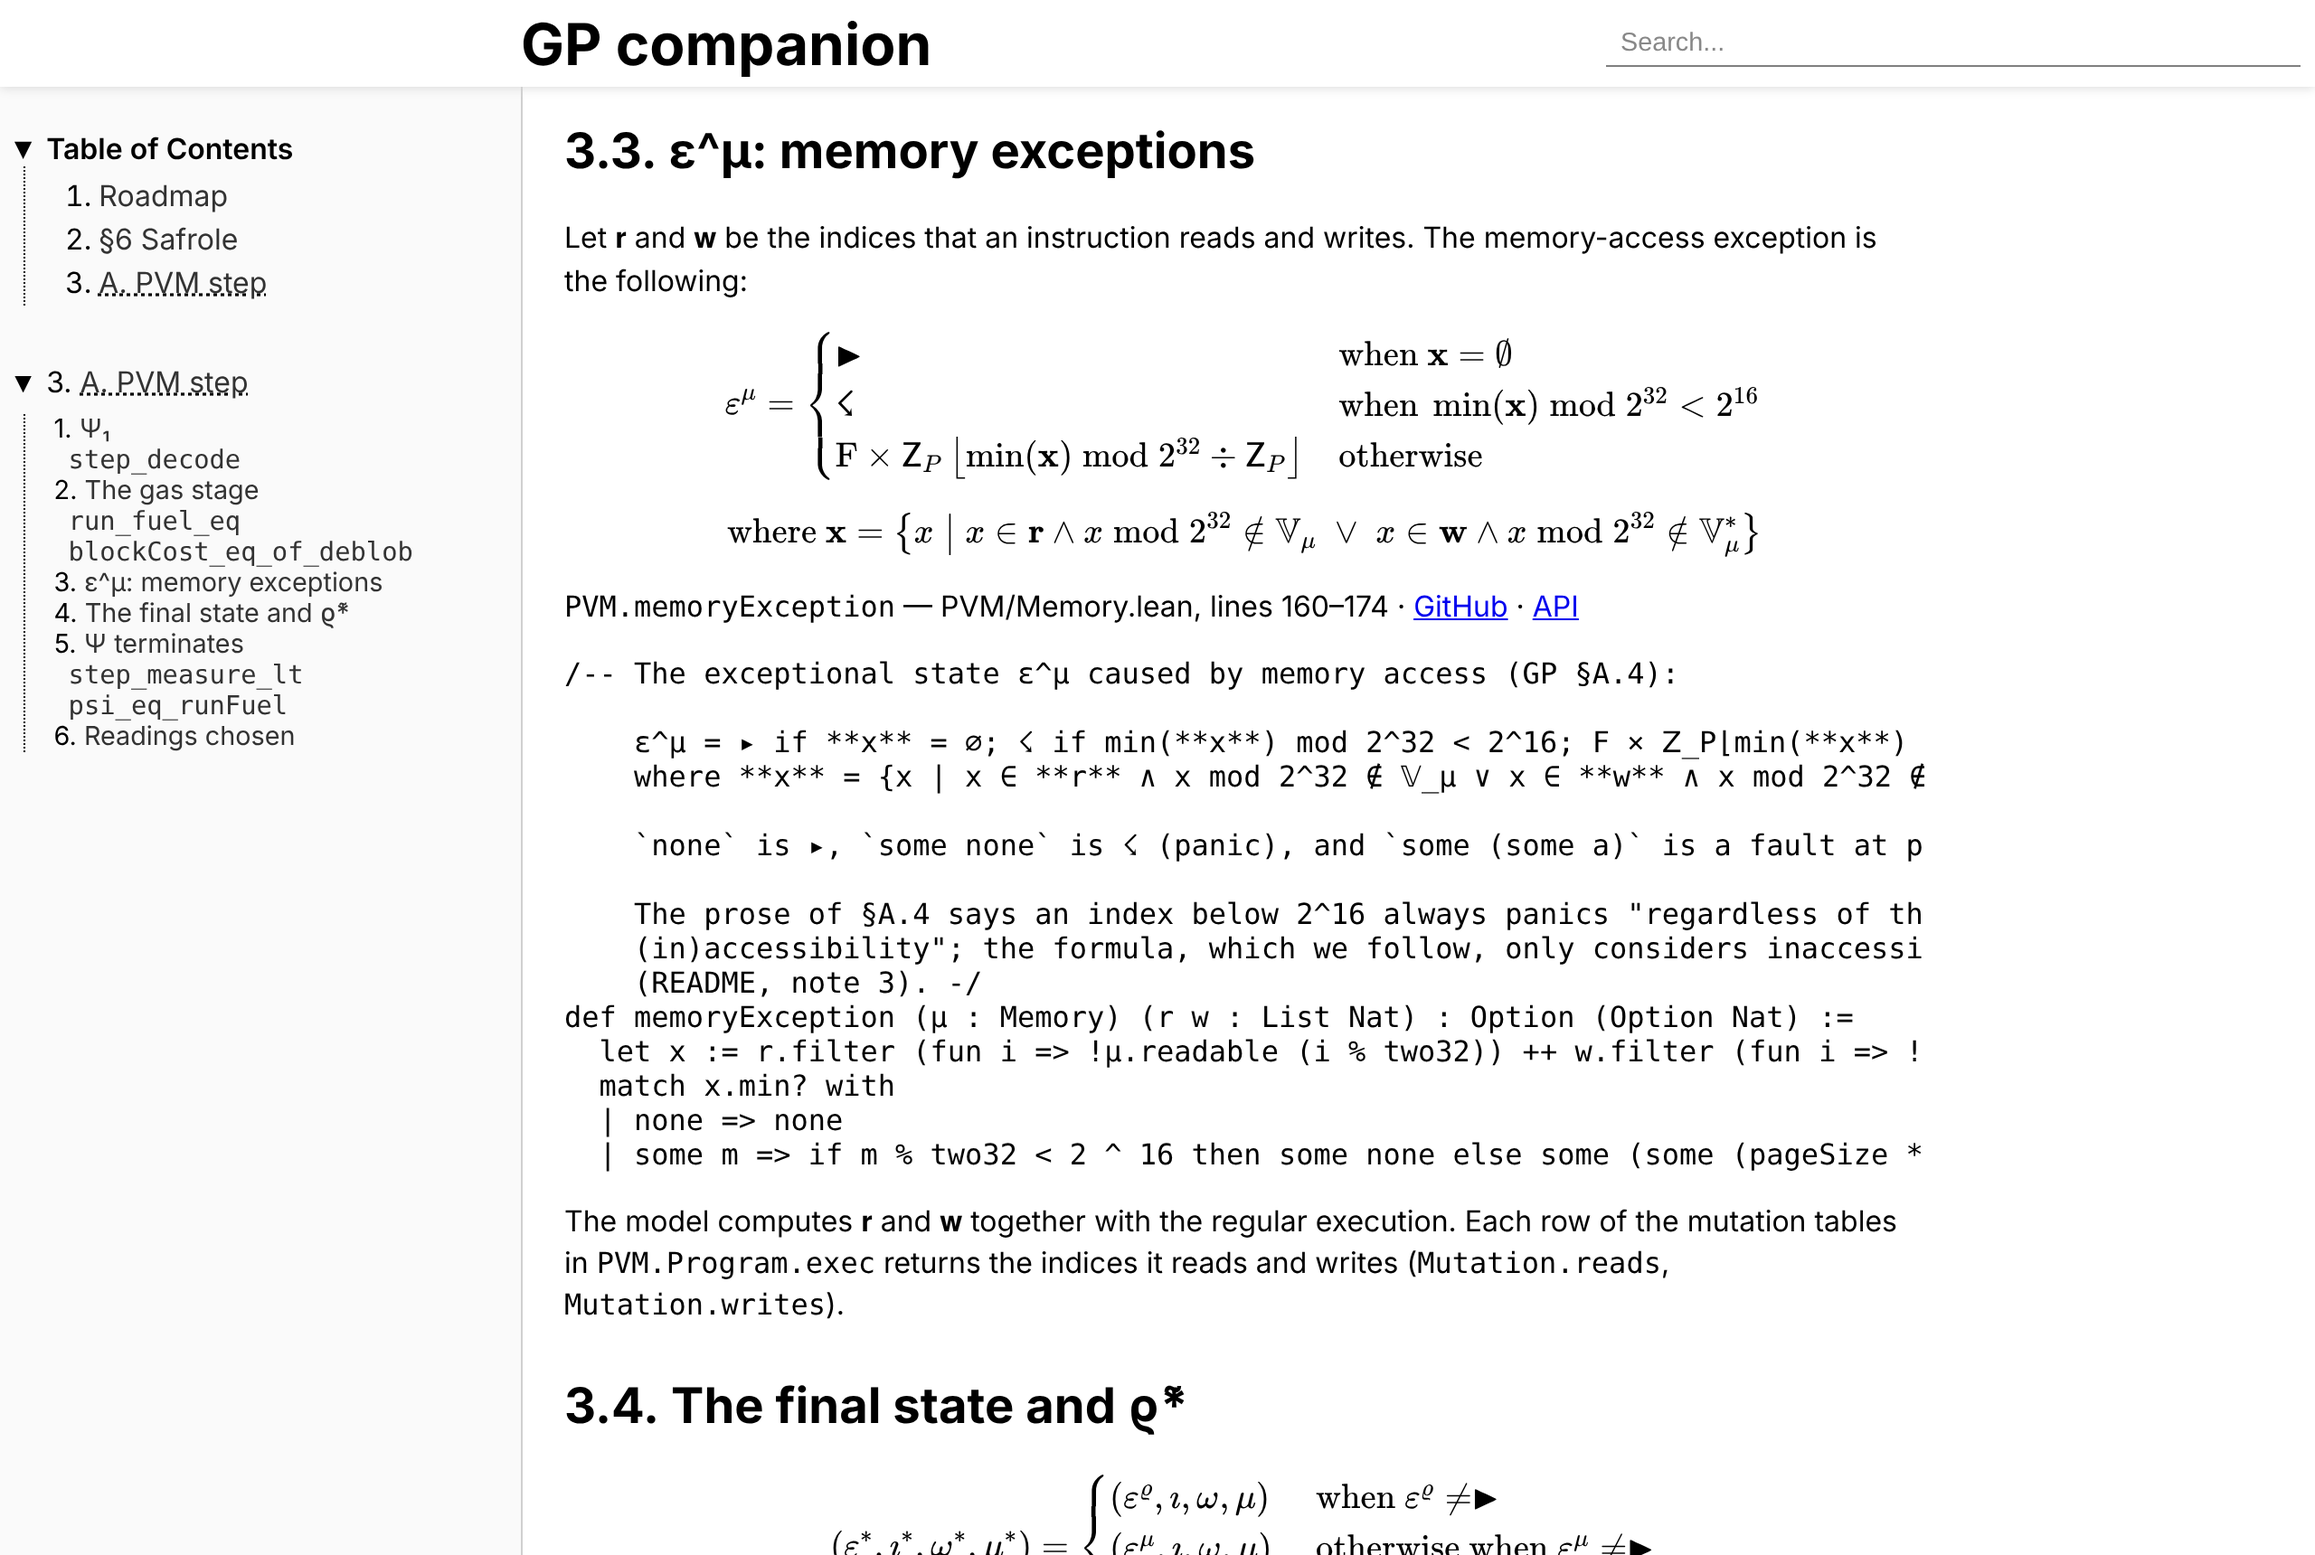
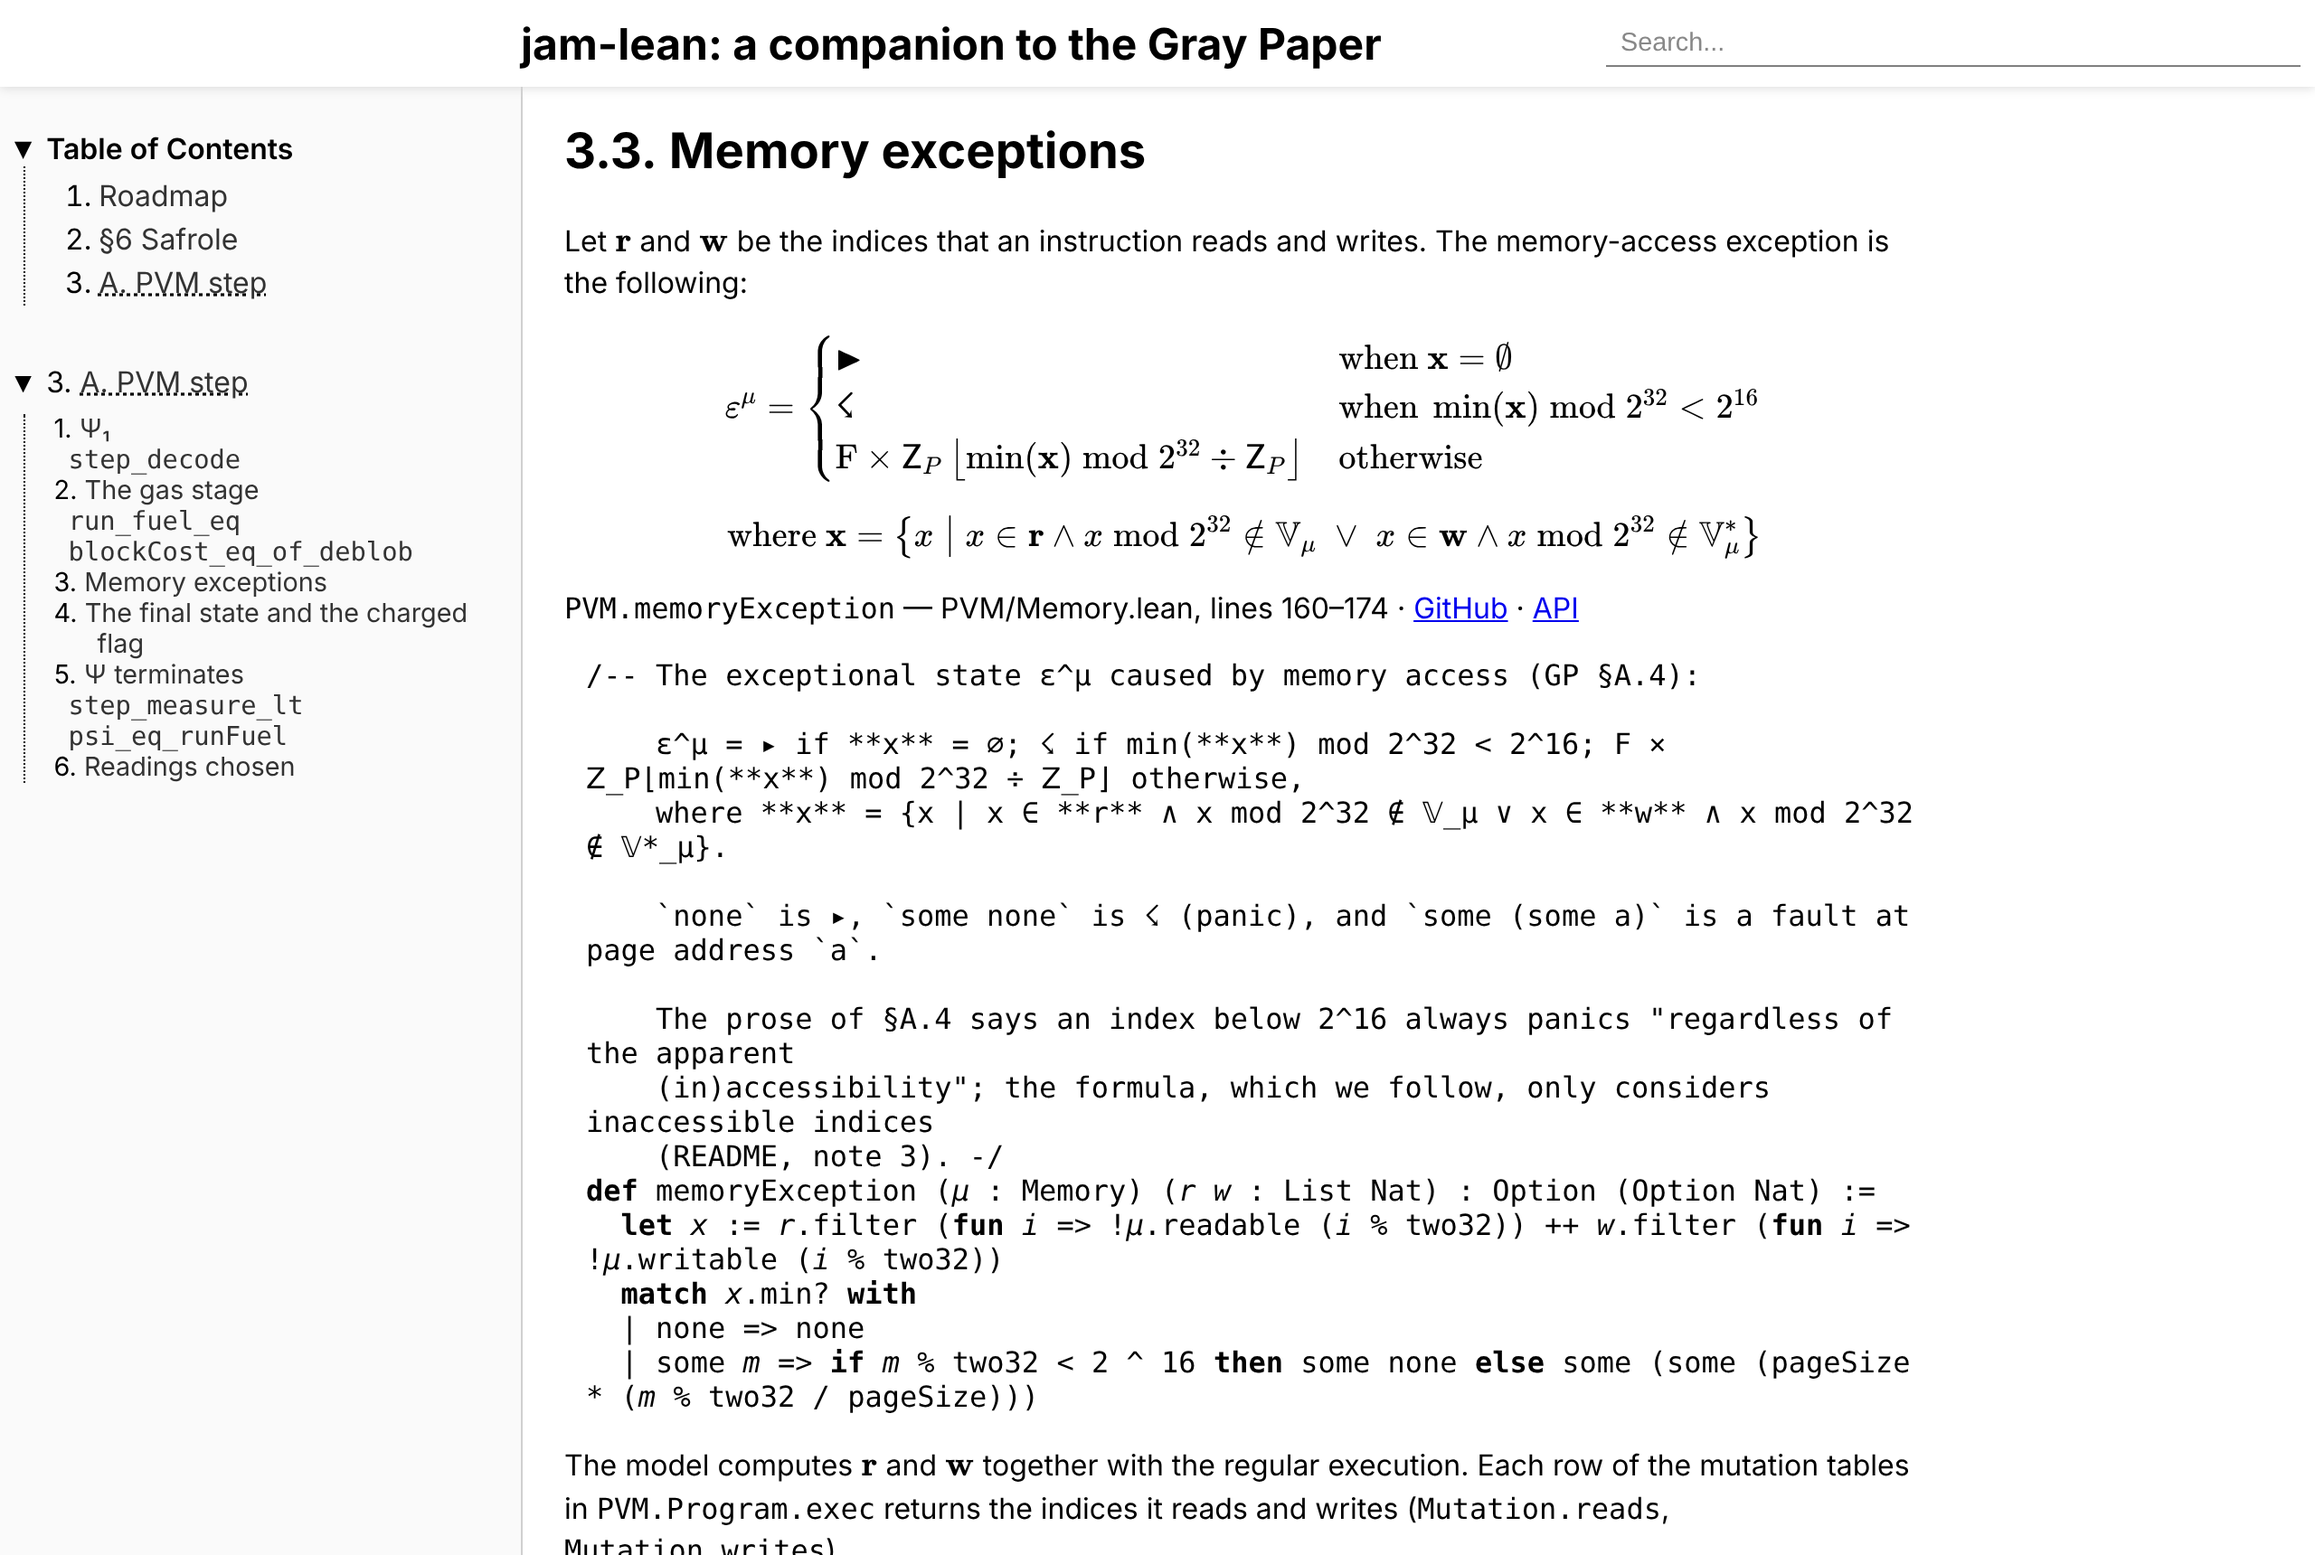
Companion: SubVerso highlighting for quoted source; inline KaTeX in prose; layout polish
{leanSource} renders the SubVerso-highlighted command (hovers, links) from the highlighted facet,
built from docs/site for the quoted modules (modelHighlights). Prose math is inline KaTeX. Long
code lines wrap; the header title is fuller and fits a phone.

Claude-Session: https://claude.ai/code/session_01FAPLsaPzPTn9T3iJgCH8tS

diff --git a/docs/site/README.md b/docs/site/README.md
@@ -28,9 +28,12 @@ from `Companion.lean`. A chapter imports the model modules it discusses. It can 
 
 * `$$`…`` for the paper's equations, in KaTeX. Transcribe them from the pinned paper
   (`scripts/fetch-paper.sh`).
-* `{leanSource N}` for the source of declaration `N`, read from the model's file using Lean's stored
-  declaration range (`Companion/Source.lean`). Nothing is copied: a renamed declaration fails the
-  build, and an edited one shows its new text.
+* `{leanSource N}` for the source of declaration `N`, semantically highlighted (hovers, links)
+  by SubVerso, with links to its lines on GitHub and its API page (`Companion/Source.lean`).
+  Nothing is copied: a renamed declaration fails the build, and an edited one shows its new text.
+  A chapter that quotes a new model module must add it to `modelHighlights` in `lakefile.lean`
+  (SubVerso's `highlighted` facet re-elaborates exactly those modules, about 0.5 s each); the build
+  says so if one is missing.
 * `{docstring N}` for a definition or theorem's signature and docstring.
 * `{name}`N`` for an inline reference to `N`.
 
